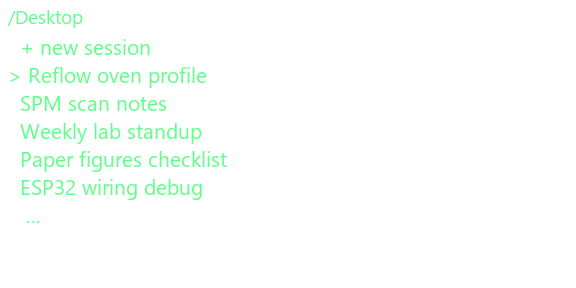
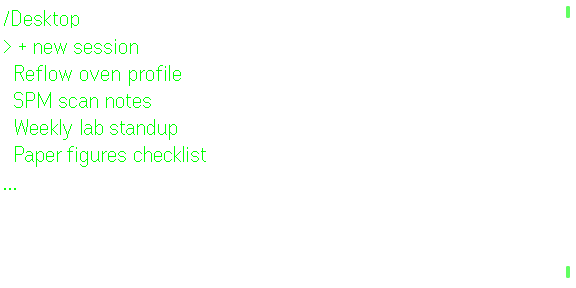
v0.4.3: render a startup page on the glasses at launch + un-processed simulator screenshots

diff --git a/store/README.md b/store/README.md
@@ -1,22 +1,34 @@
 # Store screenshots / 商店截图
 
-Previews of what the plugin draws on the glasses, for the Even Hub store listing.
-插件在眼镜上显示效果的预览图,用于 Even Hub 商店页面。
+**Un-processed original screenshots**, captured from the official **EvenHub Simulator**
+(`@evenrealities/evenhub-simulator`, endpoint `GET /api/screenshot/glasses`). They are the glasses
+framebuffer exactly as the simulator renders it — **576 × 288 RGBA, pure-green (`#00FF00`) text on a
+transparent background** — with no post-processing.
+
+这些图是**未加工的原始截图**,由官方 **EvenHub 模拟器**导出(`GET /api/screenshot/glasses`),
+即模拟器渲染出的眼镜帧缓冲原样:**576 × 288 RGBA、纯绿(#00FF00)文字、透明底**,未经任何后处理。
 
 | File | Screen |
 |---|---|
 | `01-root.png` | Root page — `/` and the `Desktop` entry |
 | `02-sessions.png` | Session list — windowed menu (5 items + `...`) |
-| `03-reply-thinking.png` | Reply page while the agent is working (`thinking`) |
+| `03-reply-thinking.png` | Reply page mid-stream, status bar showing `thinking` |
 
-## Format
+## Synthetic content / 内容为合成样例
 
-- Canvas **576 × 288 px**, origin top-left; containers are placed by absolute pixels (no CSS).
-- **Bright-green foreground on a fully transparent background** (`alpha = 0`), so the PNGs can be
-  composited over the background image picked from the portal's preset set.
-  This matches the panel behaviour: 4-bit greyscale rendered as green, where **black = off = transparent**.
-- Firmware ships a single LVGL font: not monospaced, no size control — these previews approximate it.
+Session titles, the request and the reply are made-up samples: the plugin was driven against a local
+**mock gateway** (canned `/api/sessions`, `/api/sessions/{id}/messages` and a slow
+`/api/sessions/{id}/chat/stream` SSE), so no real user data appears in these images.
+会话标题、请求与回复均为编造样例 —— 抓图时插件指向的是本地 mock 网关,不含任何真实用户数据。
 
-**Content is synthetic**: session titles, the request and the reply are made-up samples, not real
-user data. Regenerate by following the layout in `even hub/src/runtime/render.ts`
-(status line = breadcrumb + status word; menu window 5 items + `...`; reply page = `> request` + `Hermes: reply`).
+## How to regenerate / 如何重现
+
+1. Run the app in the simulator with automation enabled:
+   `evenhub-simulator "http://127.0.0.1:5173/?demo=1" --automation-port 9898`
+2. Drive it and capture:
+   - `POST /api/input` body `{"action":"click"}` to enter the session list, `{"action":"down"}` to move
+     the cursor, `{"action":"click"}` again to open a session;
+   - `GET /api/screenshot/glasses` returns the current frame as a 576×288 RGBA PNG.
+
+The screenshots must be taken with a **fresh simulator process** — reloading the page while a page
+already exists makes the glasses reject `createStartUpPageContainer`.
